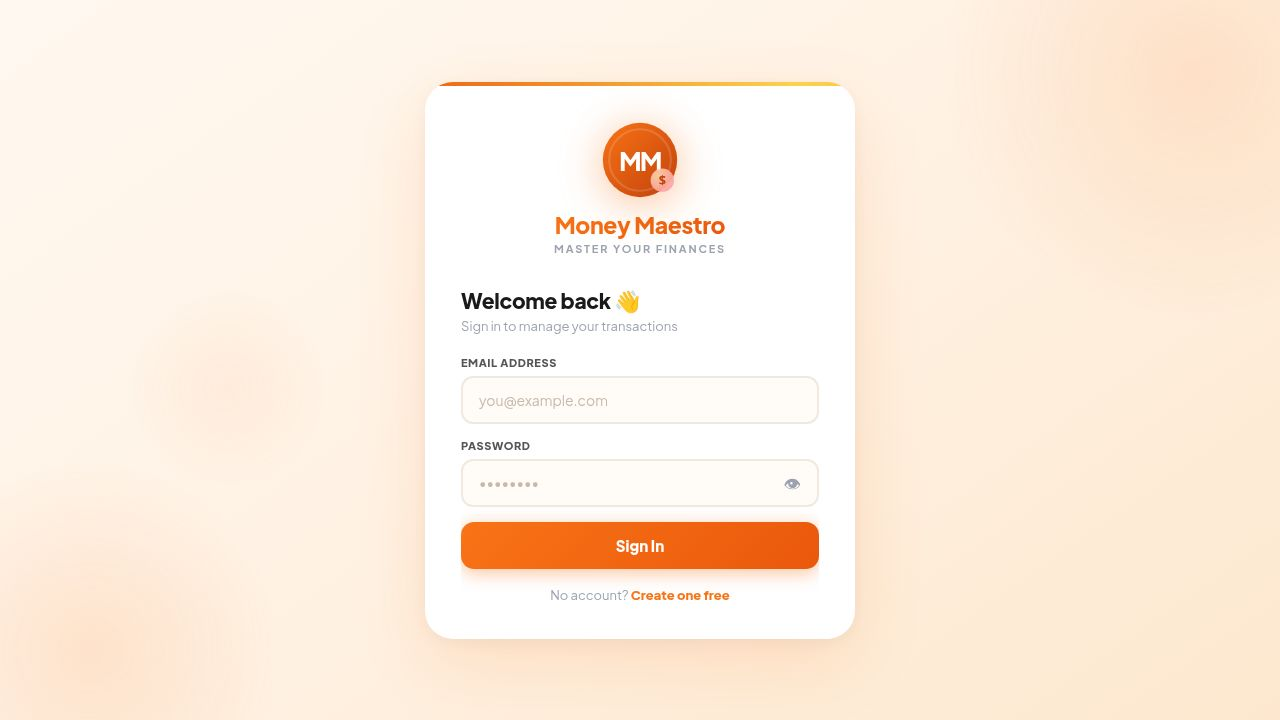
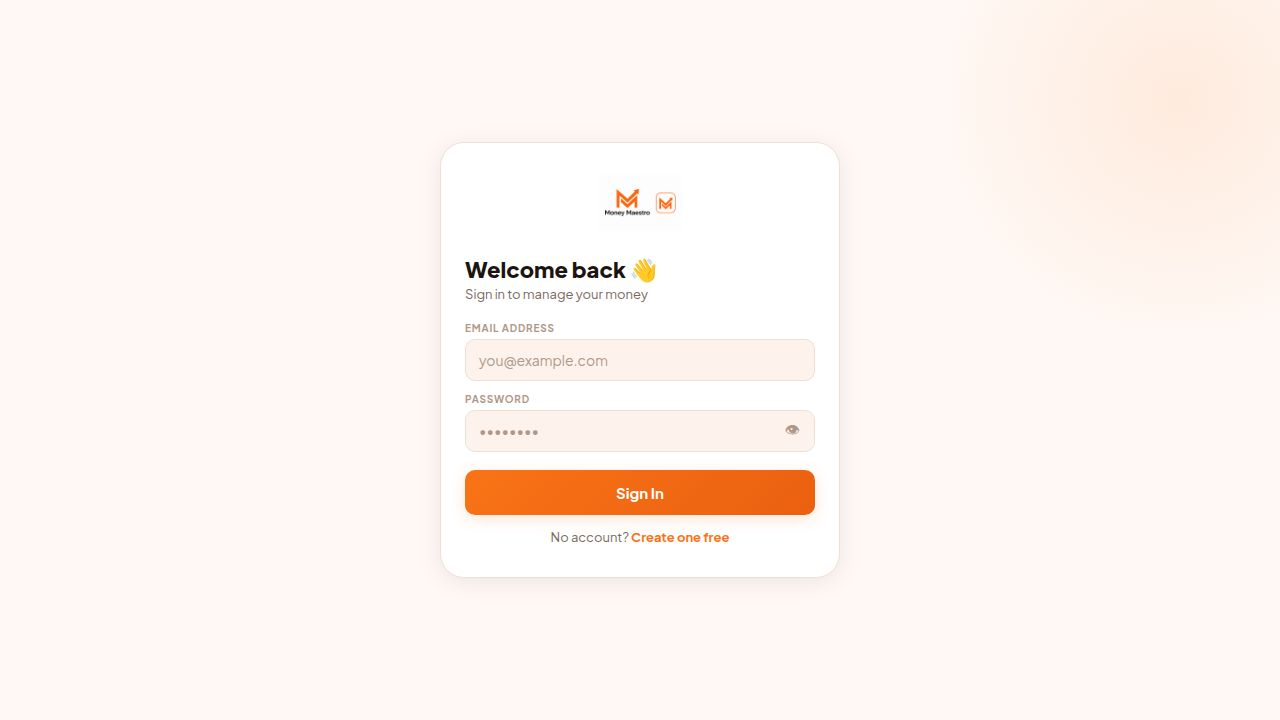
Add installable Progressive Web App capabilities to the application
Integrates PWA features by adding a manifest file, service worker, and necessary meta tags to index.html. Creates app icons and registers the service worker for offline support and home screen installation.

Replit-Commit-Author: Agent
Replit-Commit-Session-Id: 2af03cef-ef1b-41b9-956d-172edd964fb5
Replit-Commit-Checkpoint-Type: full_checkpoint
Replit-Commit-Event-Id: c53da003-89b1-41ef-a34a-4fbd9348808d
Replit-Commit-Screenshot-Url: https://storage.googleapis.com/screenshot-production-us-central1/310b2529-d95a-44ea-8136-aaa95e7b8883/2af03cef-ef1b-41b9-956d-172edd964fb5/Vv7aBhC
Replit-Helium-Checkpoint-Created: true

diff --git a/artifacts/money-maestro/public/sw.js b/artifacts/money-maestro/public/sw.js
@@ -1,0 +1,37 @@
+const CACHE = 'mm-v1';
+const ASSETS = [
+  '/',
+  '/index.html',
+  '/icon-192.png',
+  '/icon-512.png',
+  '/apple-touch-icon.png'
+];
+
+self.addEventListener('install', e => {
+  e.waitUntil(
+    caches.open(CACHE).then(c => c.addAll(ASSETS)).then(() => self.skipWaiting())
+  );
+});
+
+self.addEventListener('activate', e => {
+  e.waitUntil(
+    caches.keys().then(keys =>
+      Promise.all(keys.filter(k => k !== CACHE).map(k => caches.delete(k)))
+    ).then(() => self.clients.claim())
+  );
+});
+
+self.addEventListener('fetch', e => {
+  const url = new URL(e.request.url);
+  if (e.request.method !== 'GET') return;
+  if (url.hostname.includes('supabase') || url.hostname.includes('cdn')) return;
+  e.respondWith(
+    fetch(e.request)
+      .then(res => {
+        const clone = res.clone();
+        caches.open(CACHE).then(c => c.put(e.request, clone));
+        return res;
+      })
+      .catch(() => caches.match(e.request).then(r => r || caches.match('/index.html')))
+  );
+});

diff --git a/artifacts/money-maestro/index.html b/artifacts/money-maestro/index.html
@@ -4,6 +4,26 @@
   <meta charset="UTF-8" />
   <meta name="viewport" content="width=device-width, initial-scale=1.0, viewport-fit=cover" />
   <title>Money Maestro</title>
+
+  <!-- PWA: Web App Manifest -->
+  <link rel="manifest" href="/manifest.json" />
+
+  <!-- PWA: Theme & status bar -->
+  <meta name="theme-color" content="#F97316" />
+  <meta name="mobile-web-app-capable" content="yes" />
+
+  <!-- PWA: iOS / Safari -->
+  <meta name="apple-mobile-web-app-capable" content="yes" />
+  <meta name="apple-mobile-web-app-status-bar-style" content="black-translucent" />
+  <meta name="apple-mobile-web-app-title" content="Money Maestro" />
+  <link rel="apple-touch-icon" href="/apple-touch-icon.png" />
+
+  <!-- PWA: Misc -->
+  <meta name="application-name" content="Money Maestro" />
+  <meta name="msapplication-TileColor" content="#F97316" />
+  <meta name="msapplication-TileImage" content="/icon-192.png" />
+  <link rel="icon" type="image/png" sizes="192x192" href="/icon-192.png" />
+  <link rel="shortcut icon" href="/icon-192.png" />
   <link rel="icon" type="image/png" href="/logo-icon.png">
   <link rel="preconnect" href="https://fonts.googleapis.com">
   <link rel="preconnect" href="https://fonts.gstatic.com" crossorigin>
@@ -2177,6 +2197,15 @@ document.getElementById('reg-pw').addEventListener('keydown',   e => { if(e.key=
   const saved = localStorage.getItem('mm_book');
   if (saved) curBook = saved;
 })();
+
+// Register Service Worker (PWA)
+if ('serviceWorker' in navigator) {
+  window.addEventListener('load', () => {
+    navigator.serviceWorker.register('/sw.js', { scope: '/' })
+      .then(reg => console.log('[SW] Registered, scope:', reg.scope))
+      .catch(err => console.warn('[SW] Registration failed:', err));
+  });
+}
 </script>
 </body>
 </html>